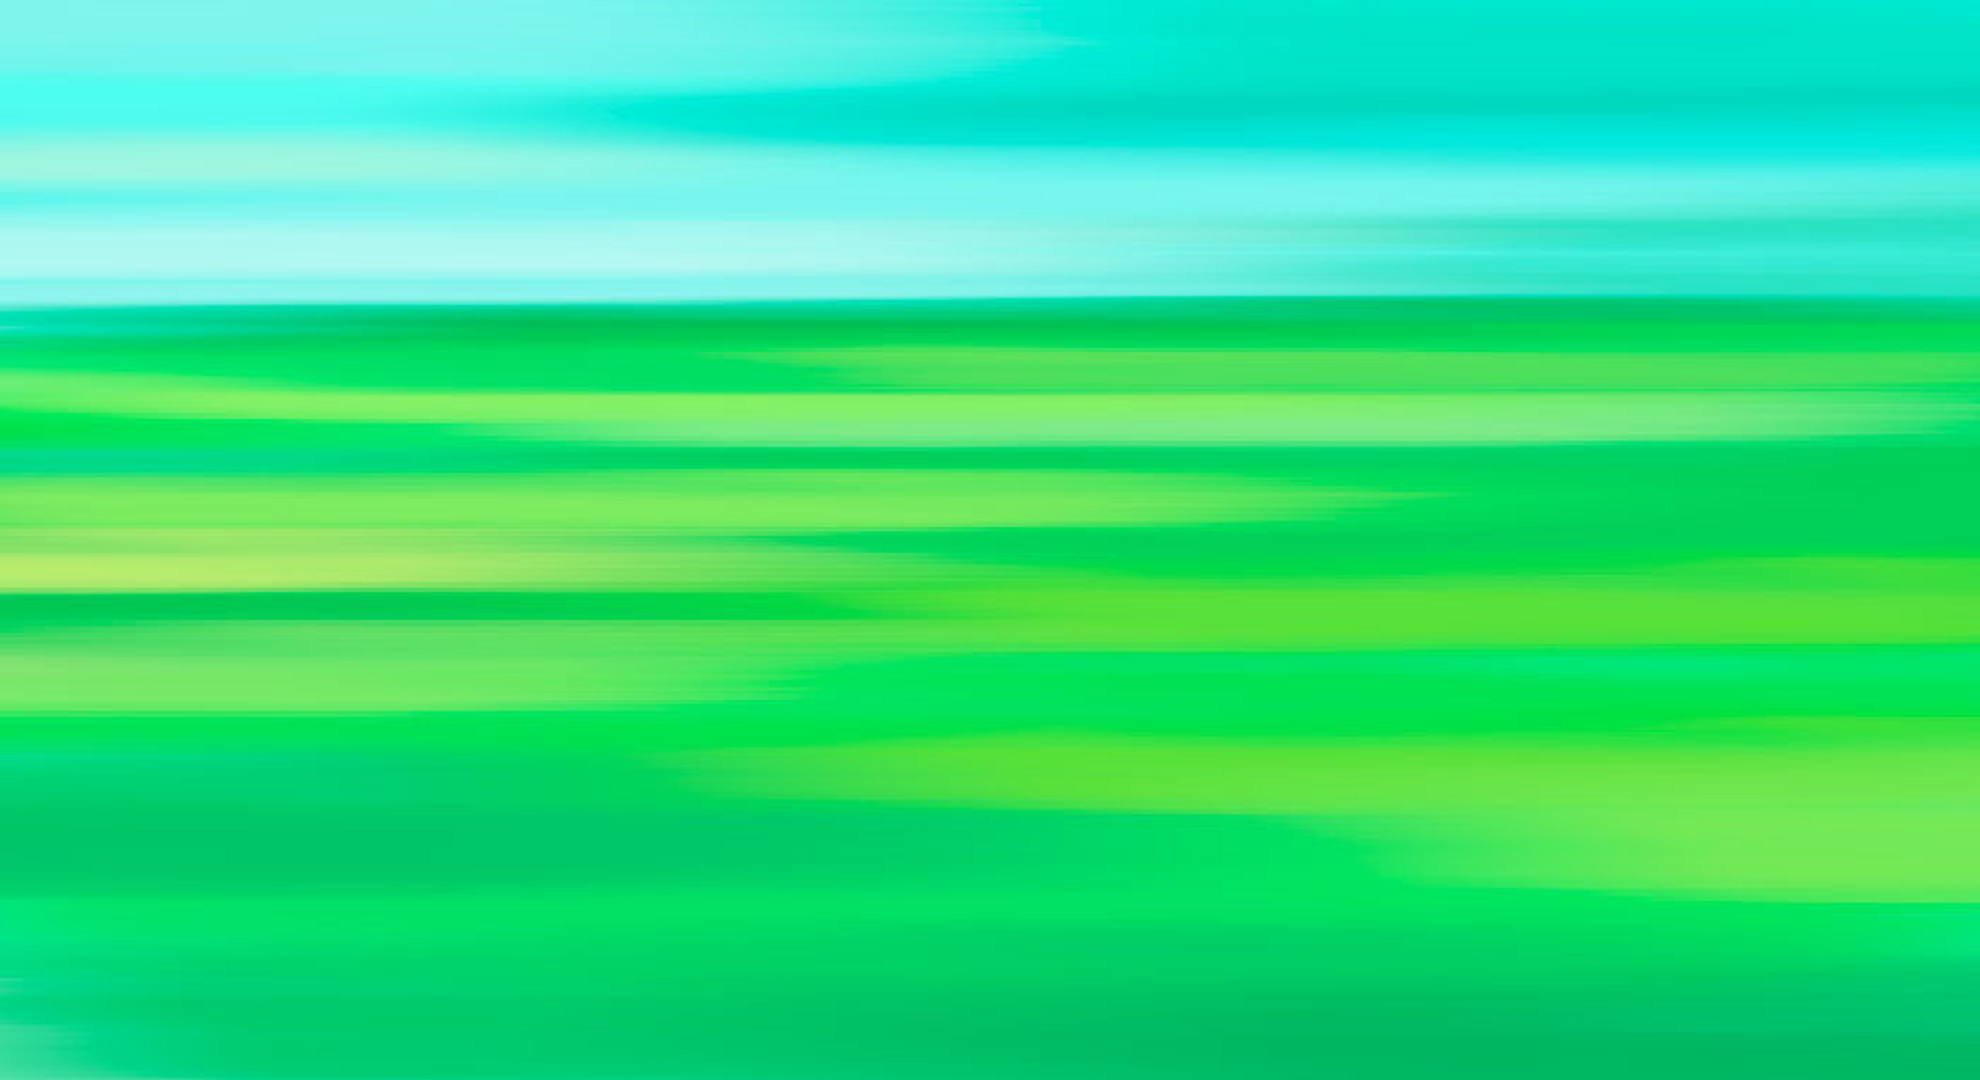
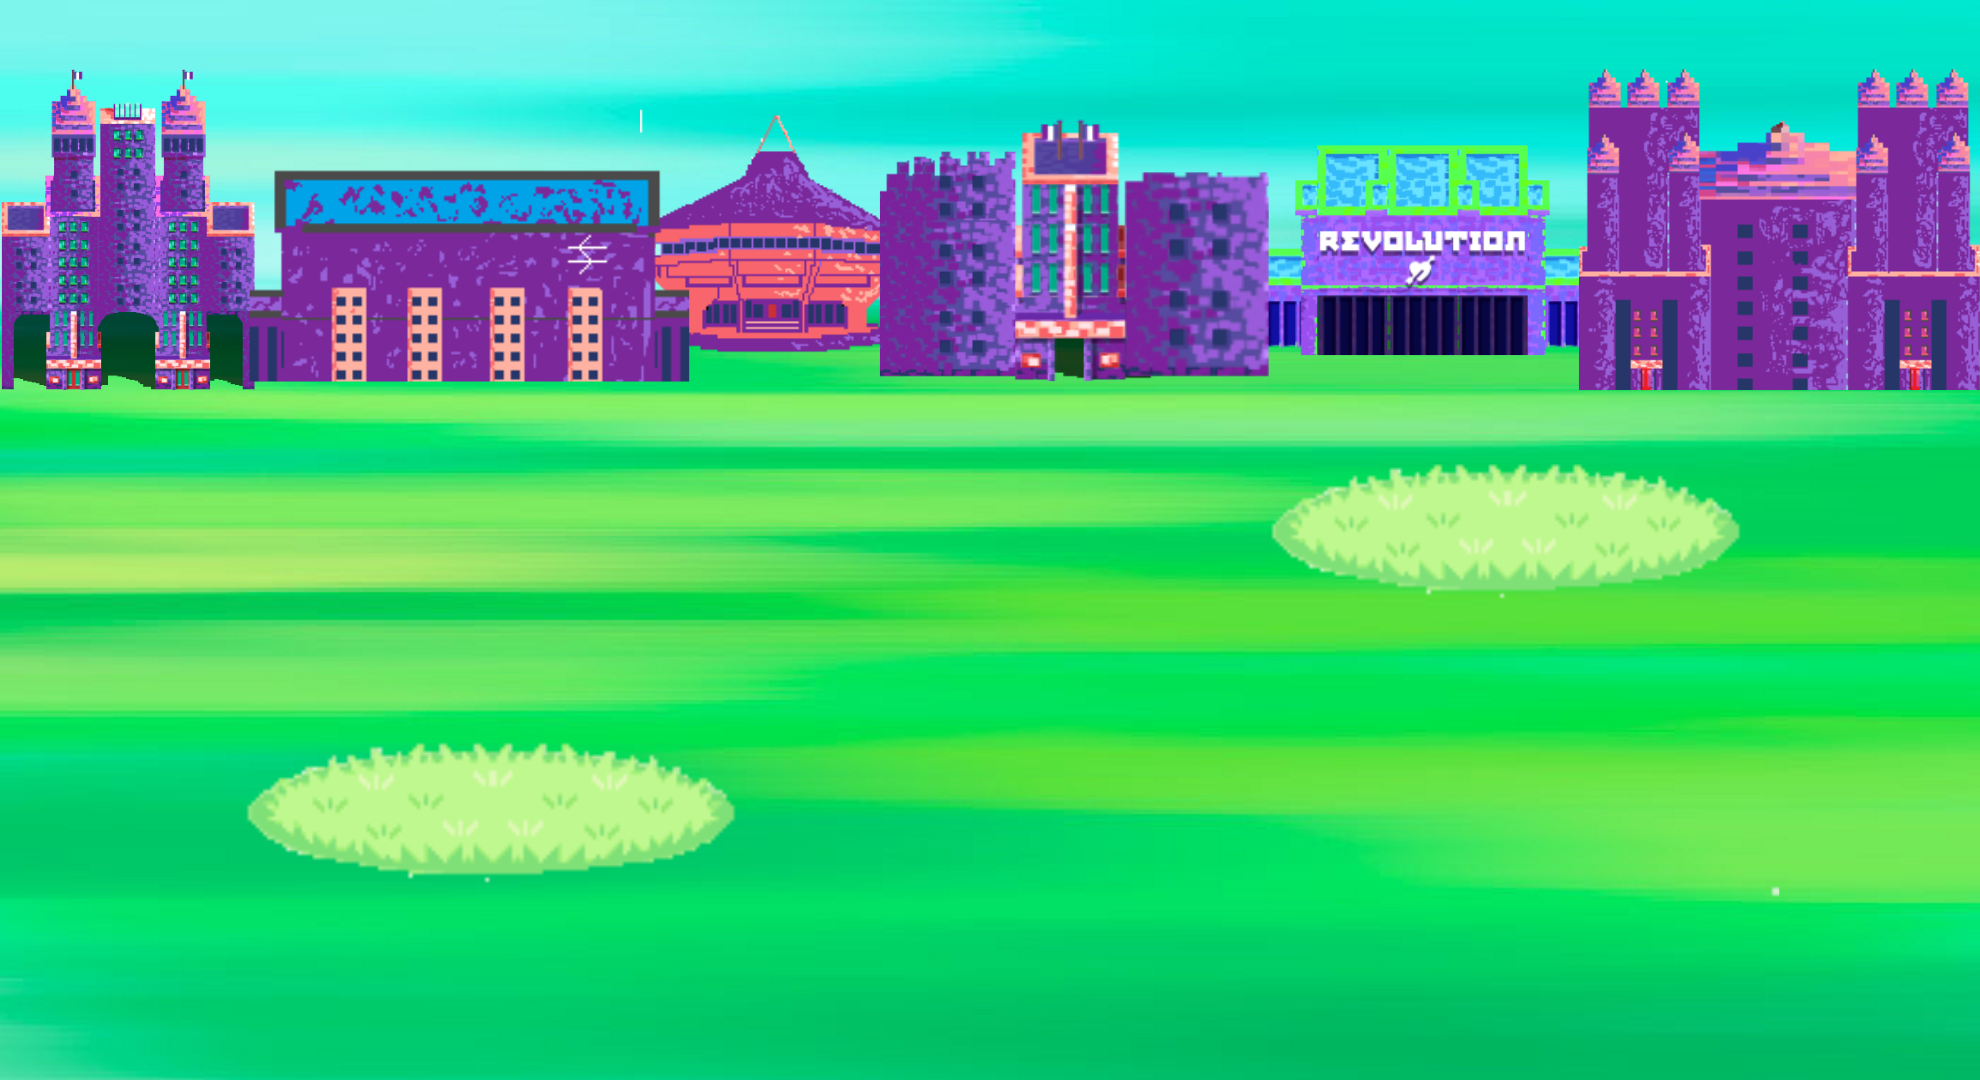
changed sprites for background and alien

Changed region(s): [[0.0, 0.0611, 1.0, 0.3667], [0.1232, 0.6722, 0.3697, 0.825], [0.647, 0.4278, 0.8934, 0.55]]

diff --git a/SEPR-game-master/SEPRKroy/core/src/com/mozarellabytes/kroy/Screens/MiniGameScreen.java b/SEPR-game-master/SEPRKroy/core/src/com/mozarellabytes/kroy/Screens/MiniGameScreen.java
@@ -67,7 +67,6 @@ public class MiniGameScreen implements Screen{
 		camera = new OrthographicCamera();
 		camera.setToOrtho(false, Gdx.graphics.getDisplayMode().width, Gdx.graphics.getDisplayMode().height);
 		backgroundImage = new Texture("minigameBackground.png");
-		grassImage = new Texture("grass.png");
 		fireEngine = new FireEngine(100, 10, new Vector2(camera.viewportWidth/5f, camera.viewportHeight/4f), 100);
 		alien = new Alien(100, 10, new Vector2(camera.viewportWidth/1.45f, camera.viewportHeight/1.6f), 100);
 		unitTurn = fireEngine;
@@ -90,9 +89,6 @@ public class MiniGameScreen implements Screen{
 		batch.begin();
 		//Draw background
 		batch.draw(backgroundImage, 0, 0, camera.viewportWidth, camera.viewportHeight);
-		//Draw Grass circles
-		batch.draw(grassImage, camera.viewportWidth/7f, camera.viewportHeight/5.5f, camera.viewportWidth/4f, camera.viewportHeight/4f);
-		batch.draw(grassImage, camera.viewportWidth/1.6f, camera.viewportHeight/1.9f, camera.viewportWidth/4f, camera.viewportHeight/4f);
 		fireEngine.drawSprite(batch);
 		alien.drawSprite(batch);
 		//Draw FireEngine
